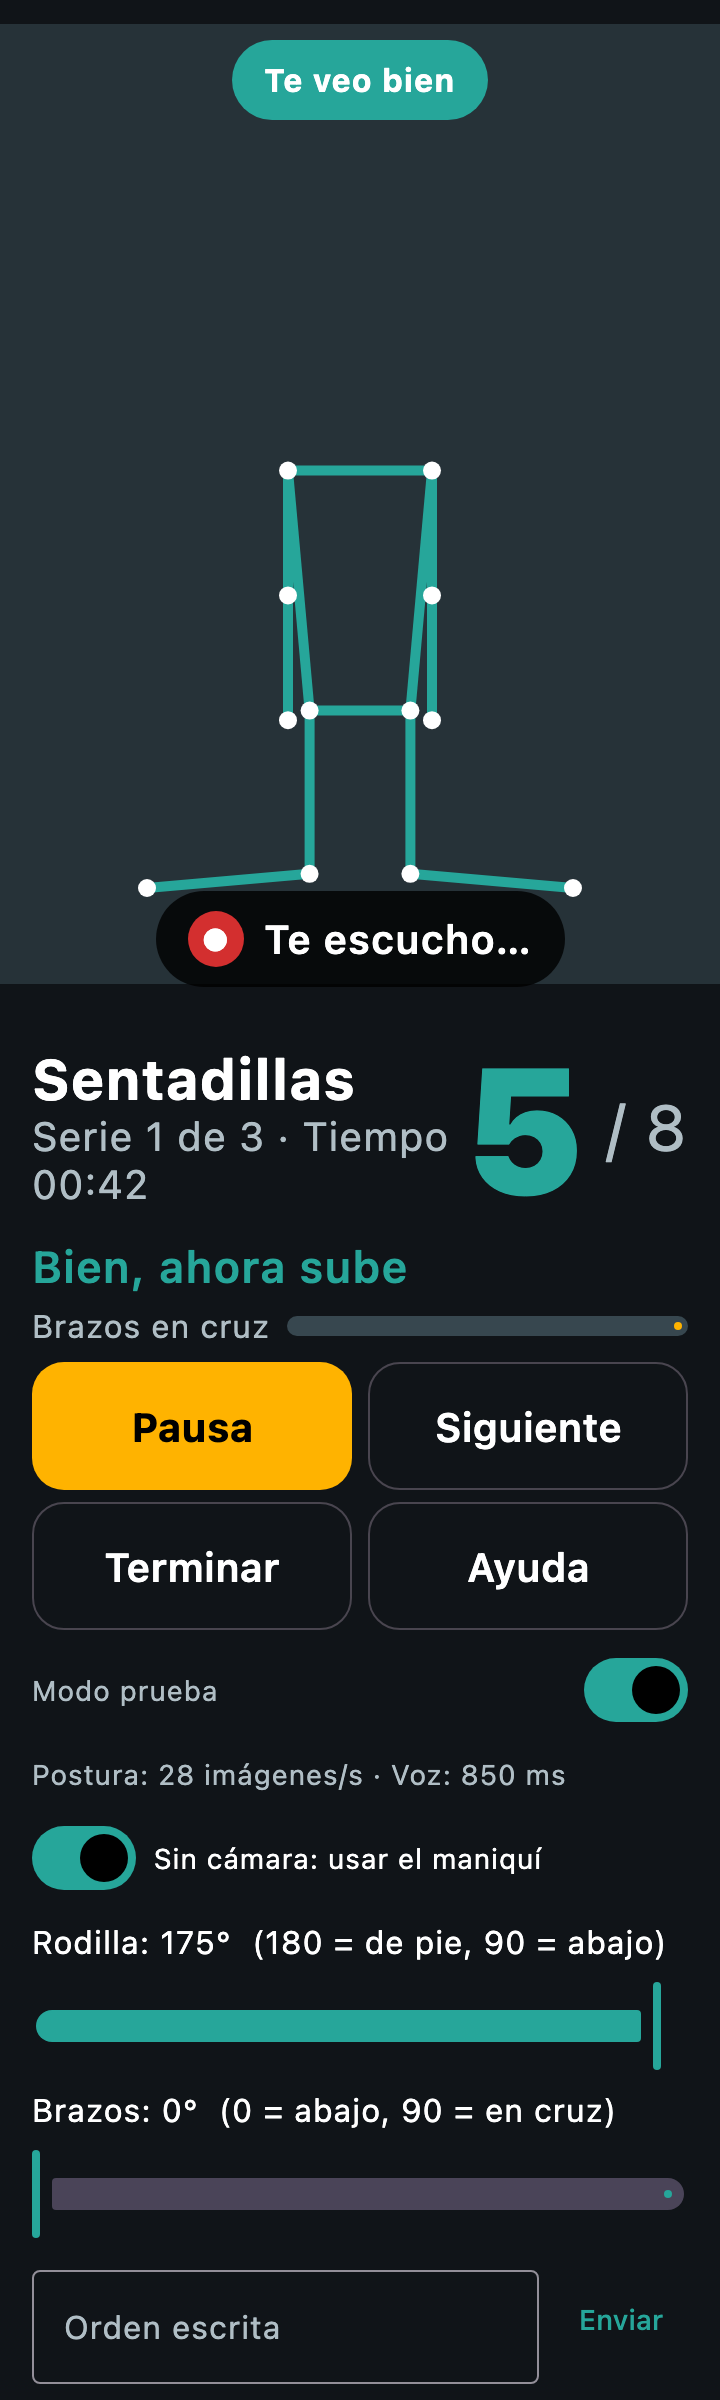
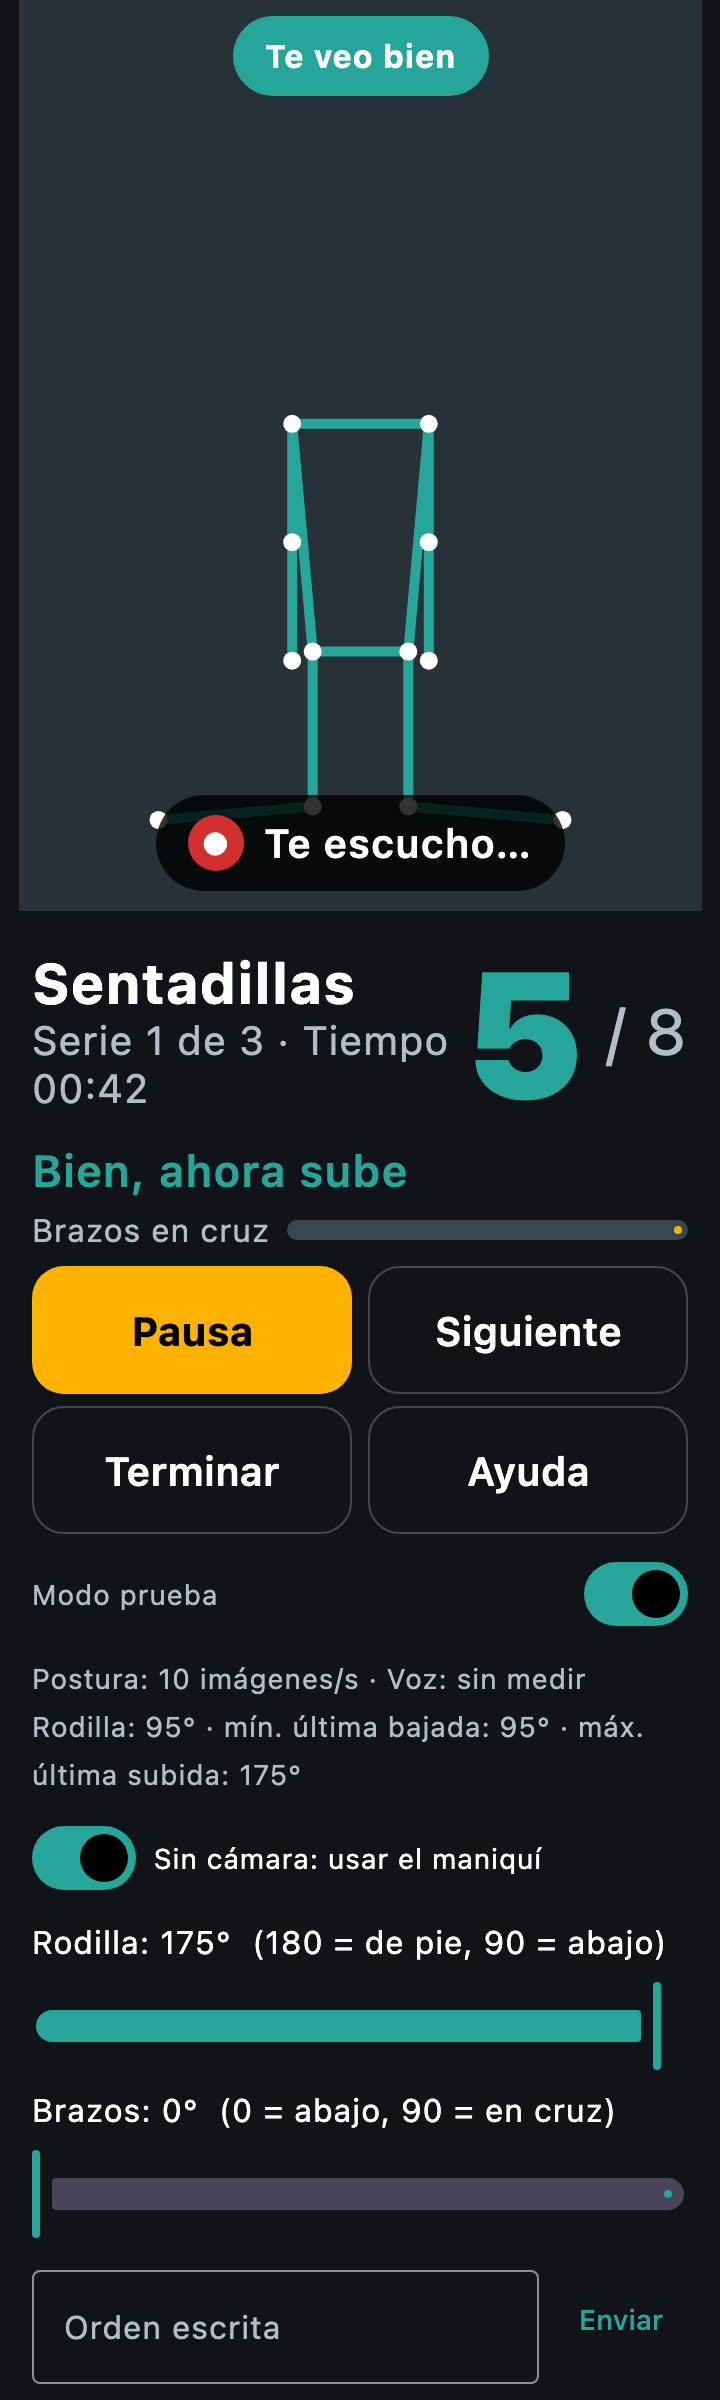
Ángulo de rodilla en el modo prueba para calibrar los umbrales

Changed region(s): [[0.0, 0.0, 1.0, 0.75]]

diff --git a/shared/src/commonMain/kotlin/es/dam/entrena/App.kt b/shared/src/commonMain/kotlin/es/dam/entrena/App.kt
@@ -44,6 +44,12 @@ fun App() = TemaEntrena {
     // Medidas en vivo (para el informe): imágenes analizadas por segundo.
     var fps by remember { mutableIntStateOf(0) }
     var cuentaImagenes by remember { mutableIntStateOf(0) }
+    // Calibración de los umbrales: ángulo de rodilla ahora, mínimo de la última bajada y máximo de la última subida.
+    var angulo by remember { mutableStateOf<Float?>(null) }
+    var minimoBajada by remember { mutableStateOf<Float?>(null) }
+    var maximoSubida by remember { mutableStateOf<Float?>(null) }
+    var minimoActual by remember { mutableStateOf(999f) }
+    var maximoActual by remember { mutableStateOf(0f) }
 
     // La cámara y Vosk avisan desde otros hilos: se pasa todo por canales y se trata en el hilo de la interfaz.
     val posturas = remember { Channel<Postura>(Channel.CONFLATED) }
@@ -93,6 +99,13 @@ fun App() = TemaEntrena {
         for (p in posturas) {
             postura = p
             cuentaImagenes++
+            anguloParaContar(p)?.let { g ->
+                angulo = g
+                minimoActual = minOf(minimoActual, g); maximoActual = maxOf(maximoActual, g)
+                // Se cierra una bajada al volver a estar de pie, y una subida al volver a agacharse.
+                if (g > 150f && minimoActual < 140f) { minimoBajada = minimoActual; minimoActual = 999f }
+                if (g < 130f && maximoActual > 150f) { maximoSubida = maximoActual; maximoActual = 0f }
+            }
             if (pantalla == Pantalla.ENTRENAMIENTO) control.postura(p, ahora())
         }
     }
@@ -118,6 +131,9 @@ fun App() = TemaEntrena {
     val medidas = buildString {
         append("Postura: $fps imágenes/s")
         append(" · Voz: ").append(escucha.latenciaMs?.let { "$it ms" } ?: "sin medir")
+        append("\nRodilla: ").append(angulo?.let { "${it.toInt()}°" } ?: "-")
+        append(" · mín. última bajada: ").append(minimoBajada?.let { "${it.toInt()}°" } ?: "-")
+        append(" · máx. última subida: ").append(maximoSubida?.let { "${it.toInt()}°" } ?: "-")
         escucha.error?.let { append("\n").append(it) }
     }
 

diff --git a/desktopApp/src/main/kotlin/es/dam/entrena/Capturas.kt b/desktopApp/src/main/kotlin/es/dam/entrena/Capturas.kt
@@ -66,7 +66,7 @@ fun main(args: Array<String>) {
 
     @Composable
     fun entreno(c: ControlEntrenamiento, ahora: Long, p: Postura, voz: EstadoVoz, detalle: String = "", prueba: Boolean = false) =
-        PantallaEntrenamiento(c, ahora, p, {}, voz, detalle, {}, {}, "Postura: 28 imágenes/s · Voz: 850 ms",
+        PantallaEntrenamiento(c, ahora, p, {}, voz, detalle, {}, {}, "Postura: 10 imágenes/s · Voz: sin medir\nRodilla: 95° · mín. última bajada: 95° · máx. última subida: 175°",
             sinCamaraInicial = true, herramientasInicial = prueba)
 
     val pantallas: List<Pair<String, @Composable () -> Unit>> = listOf(
